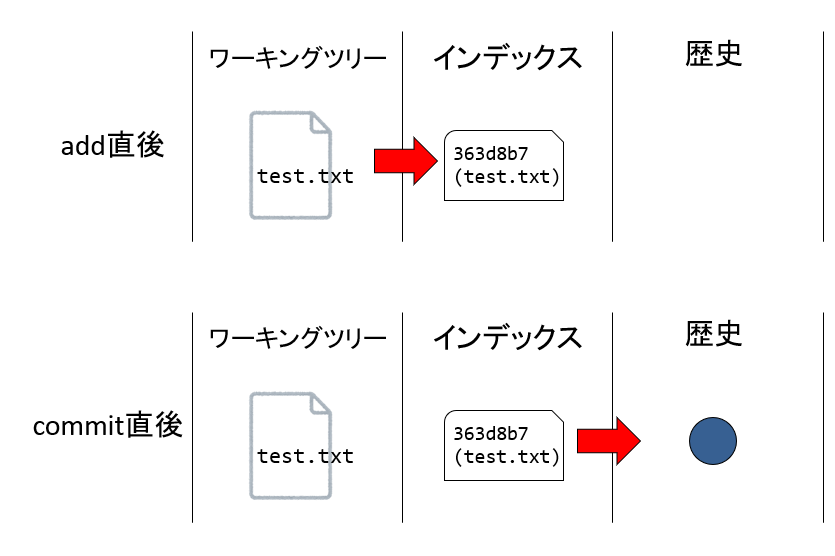
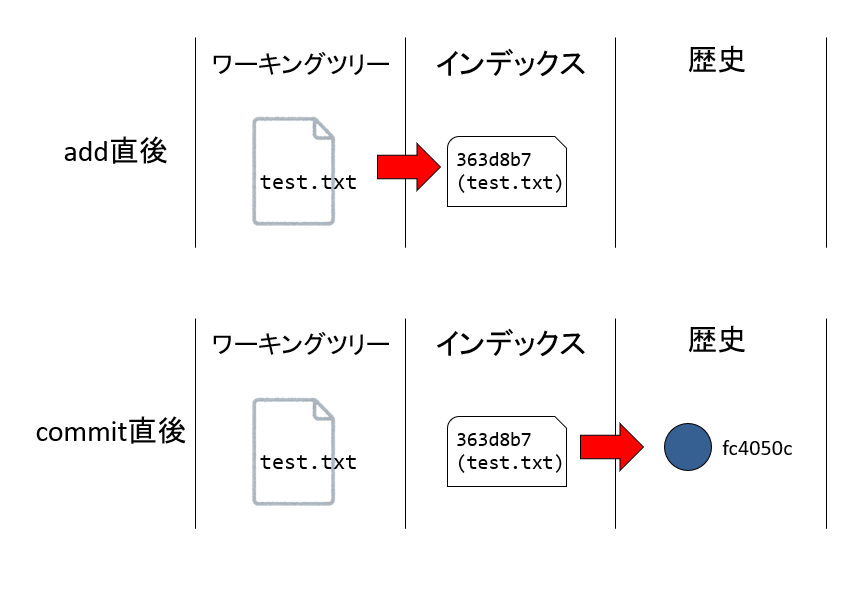
adds fig

diff --git a/articles/inside_the_index.md b/articles/inside_the_index.md
@@ -141,7 +141,11 @@ $ git commit -m "Initial commit"
  create mode 100644 test.txt
 ```
 
-無事にコミットされ、`fc4050c`というコミットオブジェクトが作られました。`.git`がどうなっているか見てみましょう。
+無事にコミットされ、`fc4050c`というコミットオブジェクトが作られました。
+
+![index](inside_the_index/index.png)
+
+`.git`がどうなっているか見てみましょう。
 
 ```sh
 $ tree .git
@@ -188,8 +192,8 @@ commit
 ```sh
 $ git cat-file -p fc4050c
 tree b40d873c372b28782e7bef9ab962a971b43fc1ca
-author H. Watanabe <kaityo256@hogehoge.jp> 1628835374 +0900
-committer H. Watanabe <kaityo256@hogehoge.jp> 1628835374 +0900
+author H. Watanabe <kaityo256@example.com> 1628835374 +0900
+committer H. Watanabe <kaityo256@example.com> 1628835374 +0900
 
 Initial commit
 ```
@@ -313,6 +317,8 @@ $ git ls-files --stage
 100644 363d8b784900d74b3159e8e93a651c0db42629ef 0    test.txt
 ```
 
+![index](inside_the_index/switch.png)
+
 つまり、ブランチ切り替えの際、ワーキングツリーだけでなく、インデックスも切り替えられています。
 
 ## ハッシュが同じファイル
@@ -375,8 +381,8 @@ $ git ls-files --stage
 ```sh
 $ git cat-file -p 5f5cabe
 tree 44c2534716a893ea86255ceddaf2afbf9e89b882
-author H. Watanabe <kaityo256@hogehoge.jp> 1628841438 +0900
-committer H. Watanabe <kaityo256@hogehoge.jp> 1628841438 +0900
+author H. Watanabe <kaityo256@example.com> 1628841438 +0900
+committer H. Watanabe <kaityo256@example.com> 1628841438 +0900
 
 initial commit
 ```
